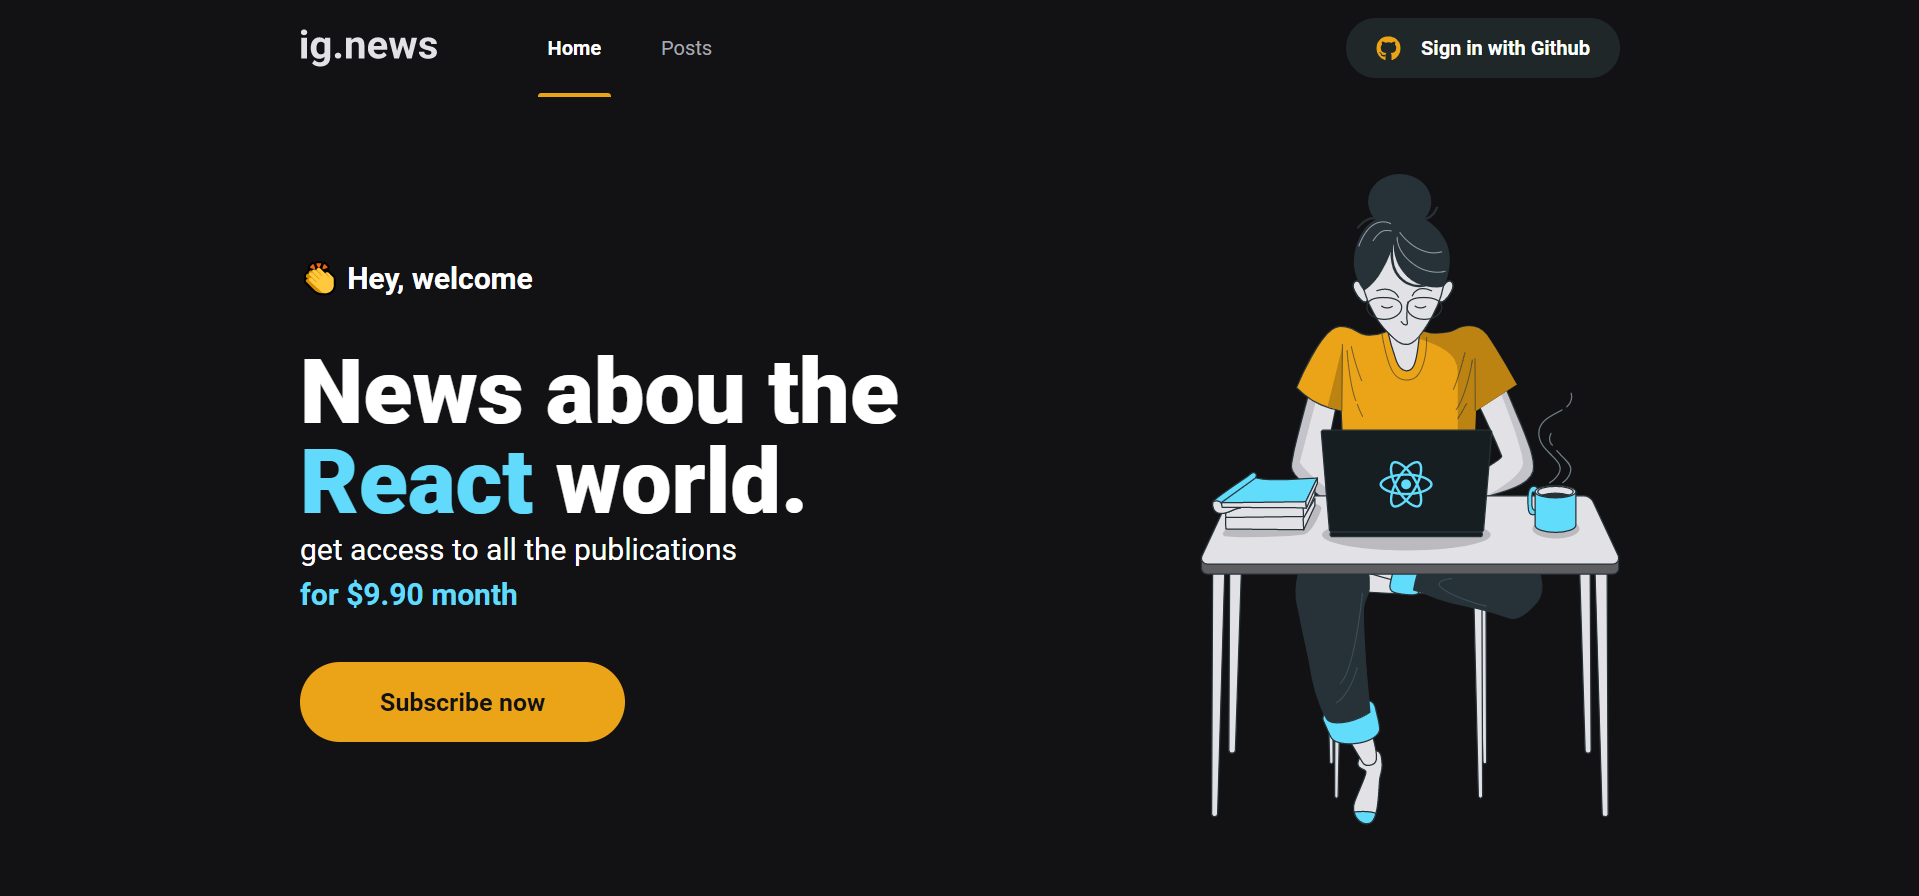
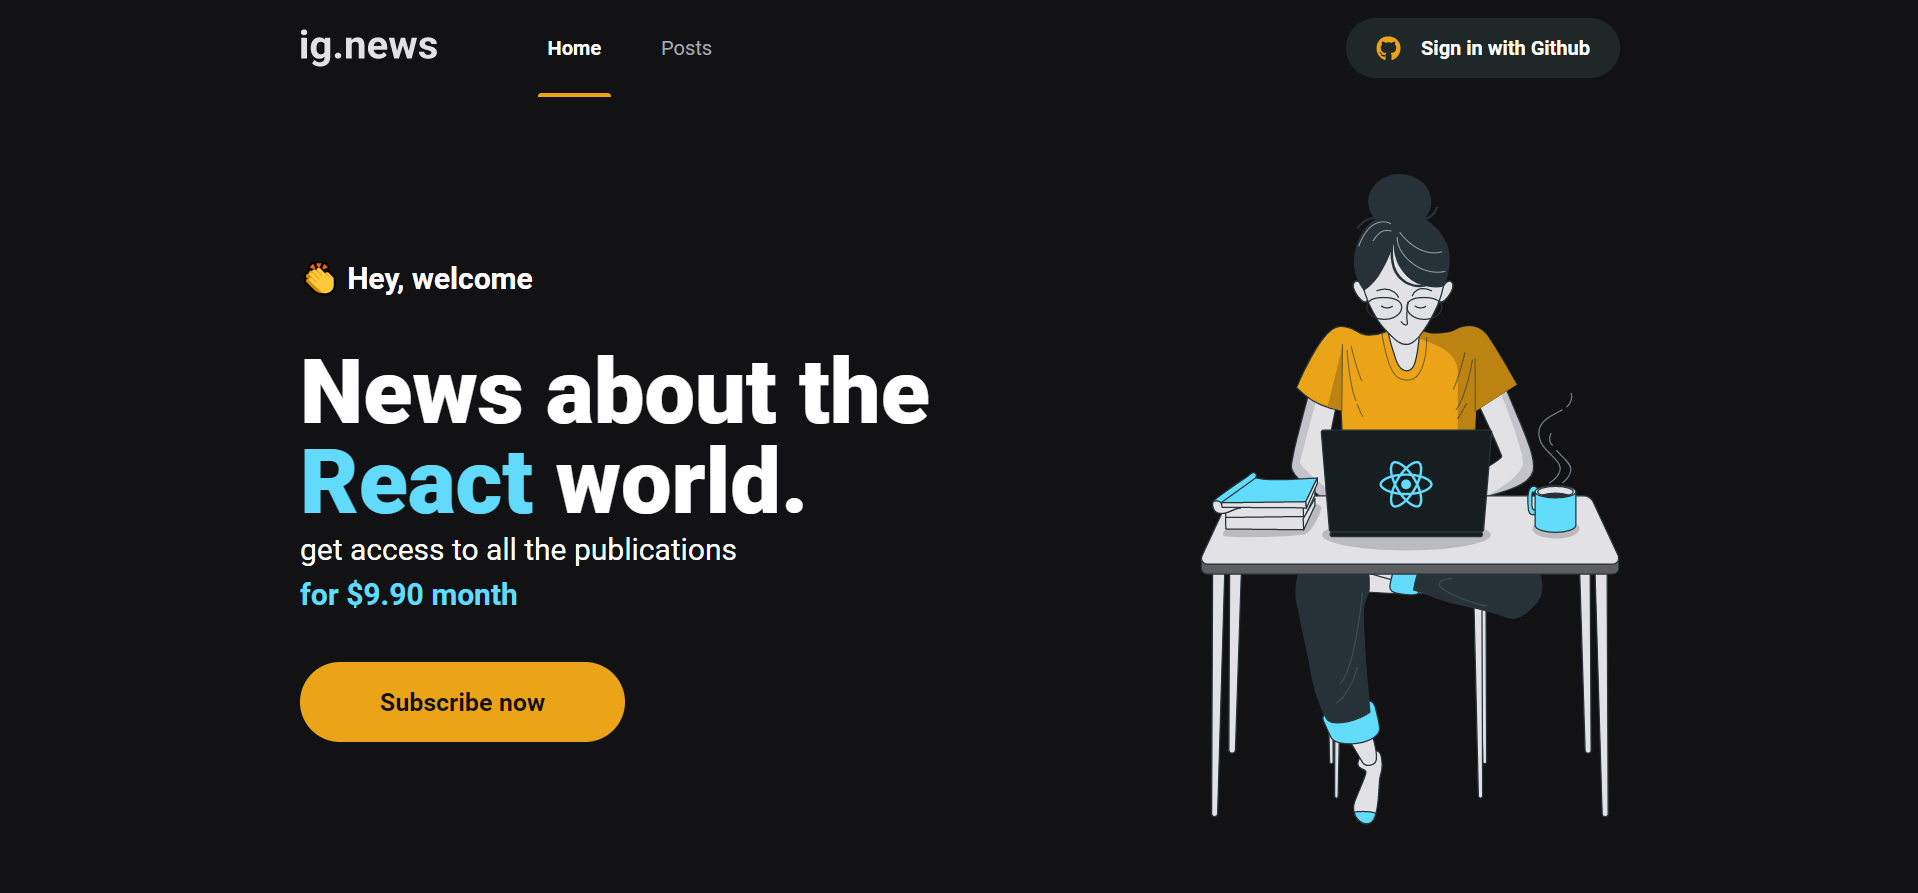
Fix home text

diff --git a/src/pages/index.tsx b/src/pages/index.tsx
@@ -22,7 +22,7 @@ export default function Home({ product }: HomeProps) {
         <section className={styles.hero}>
           <span>👏 Hey, welcome</span>
           <h1>
-            News abou the <span>React</span> world.
+            News about the <span>React</span> world.
           </h1>
 
           <p>
